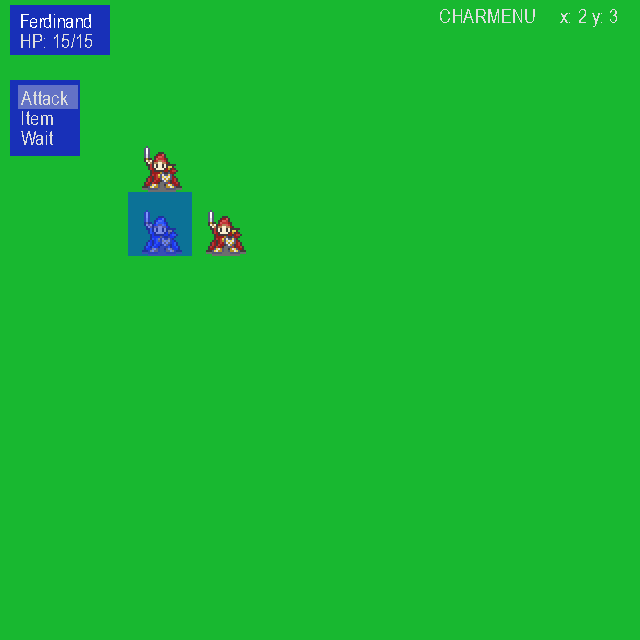
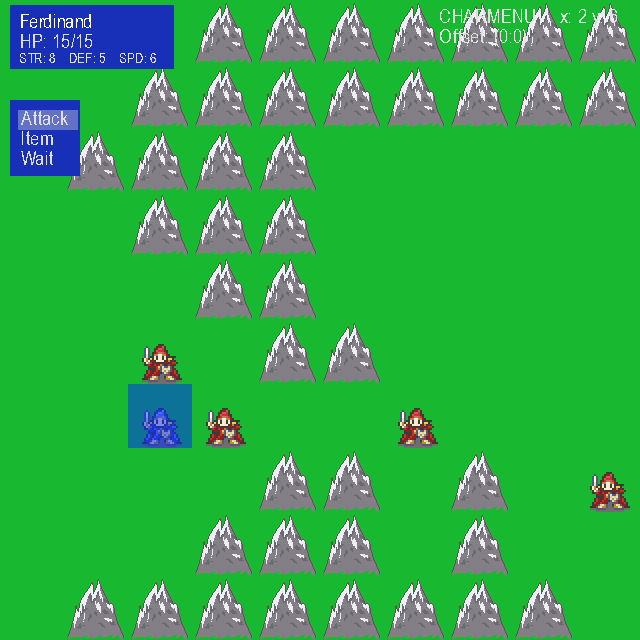
updated documentation

diff --git a/src/game_loop.py b/src/game_loop.py
@@ -202,6 +202,7 @@ class GameLoop():
                 self.menu_cursor.GetCommands(), self.menu_cursor.index + dy)
 
         elif self.cursor.state == CursorState.ATTACK:
+            self.target_selector.ScrollSelection(dx + dy)
             self.cursor.update_position(self.target_selector.GetSelection()[0],
             self.target_selector.GetSelection()[1], self.camera.offset_X, self.camera.offset_Y)
 

diff --git a/src/index.py b/src/index.py
@@ -52,6 +52,8 @@ def main():
                  offset_X=camera.offset_X, offset_Y=camera.offset_Y))
     units.append(Unit(9, 7, Alignment.ENEMY,
                  offset_X=camera.offset_X, offset_Y=camera.offset_Y))
+    units.append(Unit(2, 5, Alignment.ENEMY,
+                 offset_X=camera.offset_X, offset_Y=camera.offset_Y))
 
     pygame.font.init()
     font = pygame.font.SysFont("Arial", 20)

diff --git a/README.md b/README.md
@@ -1,6 +1,6 @@
 # Ohjelmistotekniikka, kevät 2021
 
-![](https://github.com/RadicalOyster/ot-harjoitustyo/blob/master/screenshot.png)
+![](https://github.com/RadicalOyster/ot-harjoitustyo/blob/master/images/interface_2.png)
 
 # Generic strategy game
 This project is a simple turn based strategy game inspired by [Fire Emblem](https://en.wikipedia.org/wiki/Fire_Emblem:_Shadow_Dragon_and_the_Blade_of_Light). See links below for documentation.
